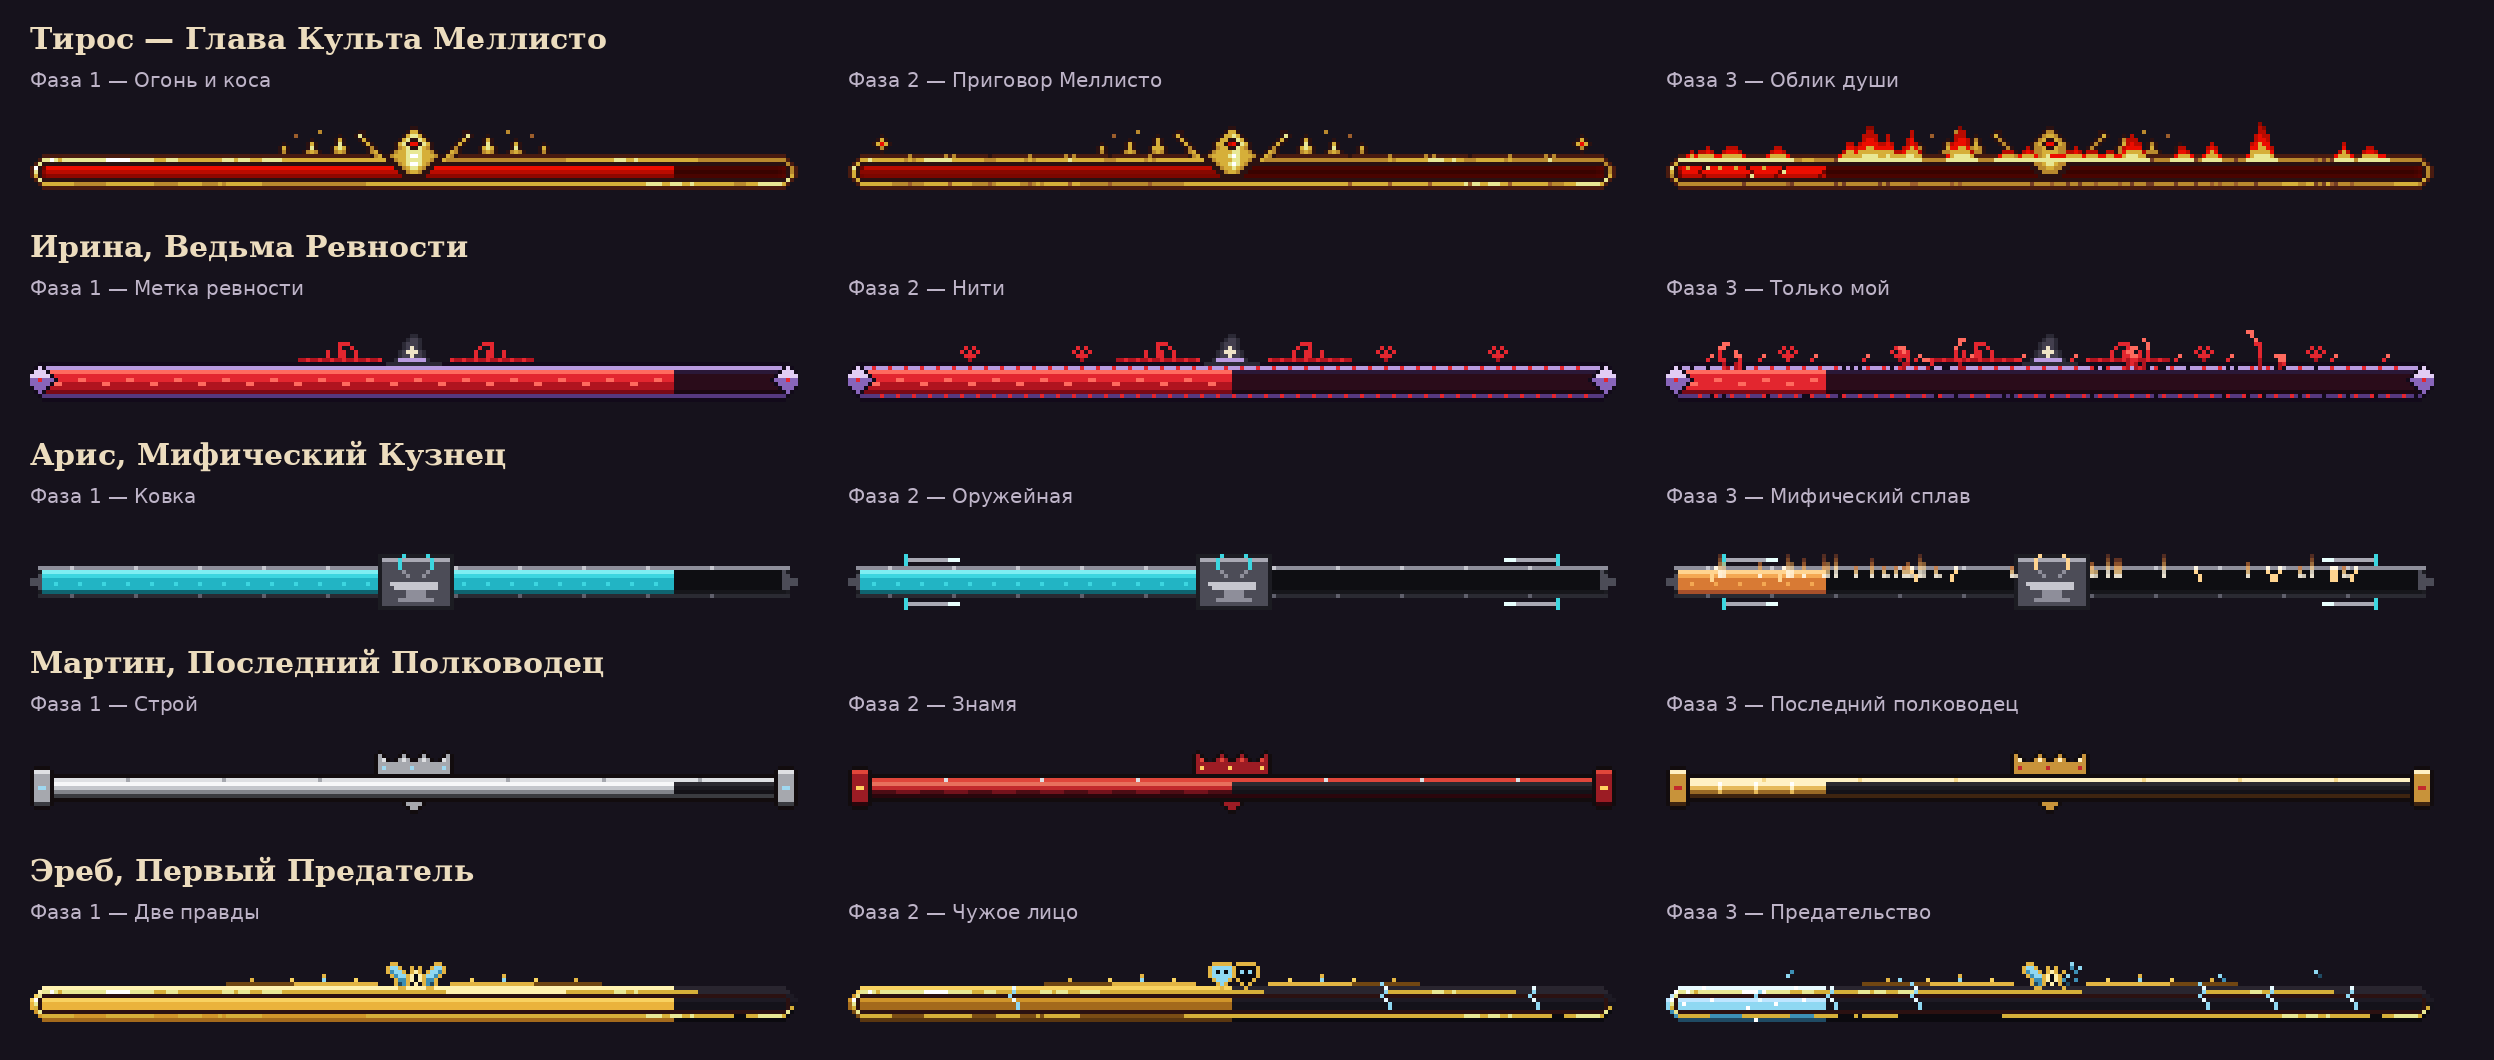
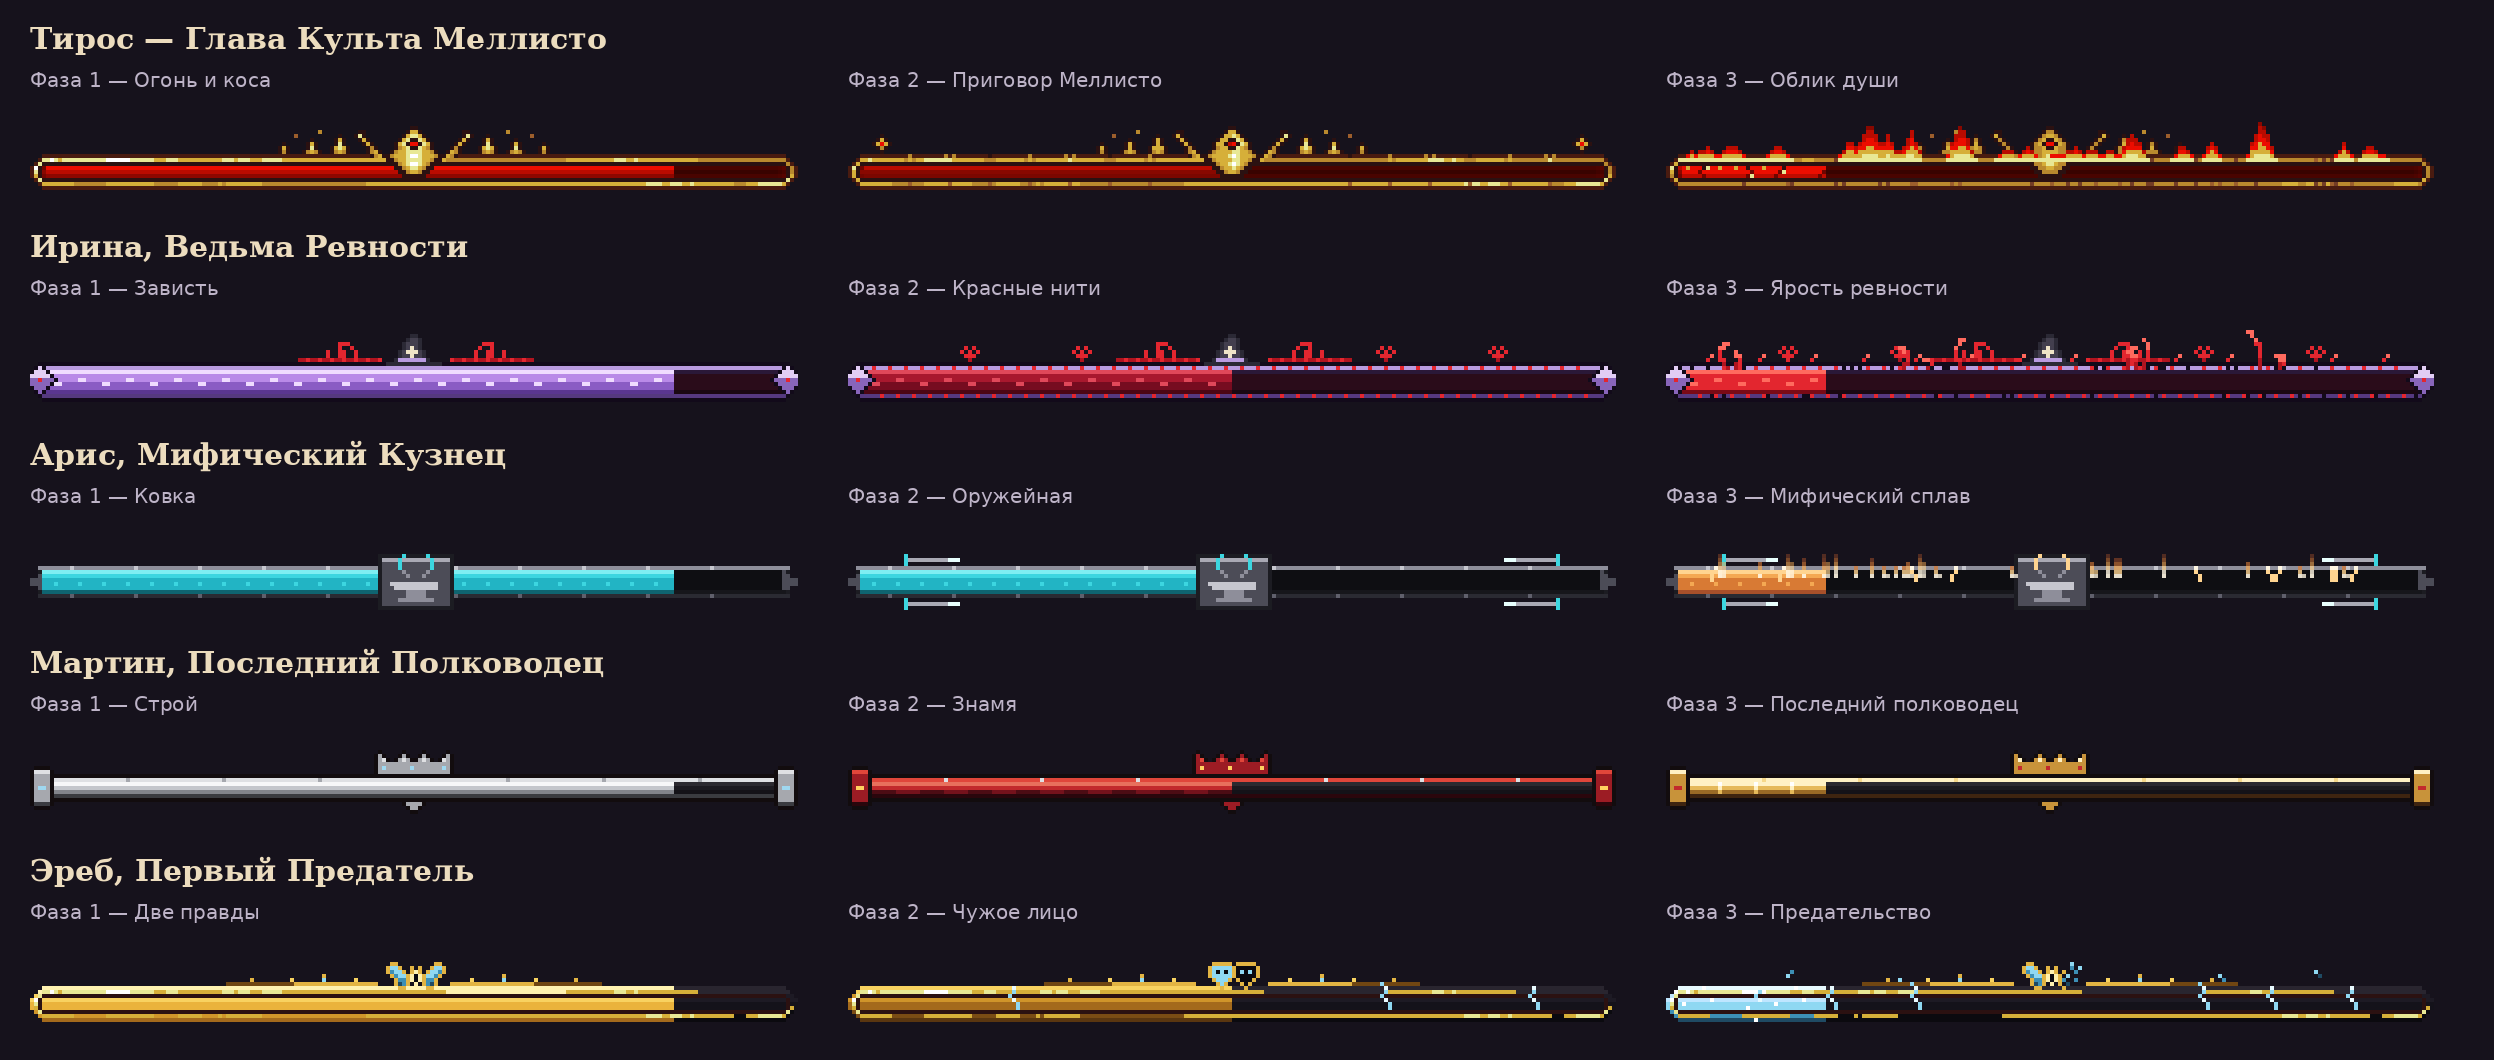
T27: Irina boss bar fill changes colour by phase (lilac / dark red / bright red); T28/T29: no NPC dialogues for now
Claude-Session: https://claude.ai/code/session_01Fjhr2dAH2KKAKWdYffHXhM

diff --git a/tools/gen_irina_fx.py b/tools/gen_irina_fx.py
@@ -651,7 +651,10 @@ def effects():
 BP = {k: _c(v) for k, v in {
     'O': '#120A1A', 'o': '#2A1838', 'L': '#E2CDF5', 'l': '#B99BE0', 'm': '#8865BA', 'd': '#55397F',
     'R': '#FF6A5E', 'r': '#E3262F', 'q': '#B0141F', 'Q': '#7A0A16', 'e': '#2A0C1A', 'E': '#1A0812',
-    'H': '#433F4E', 'h': '#2B2935', 'C': '#EFE4C8', 'G': '#F2C14A', 'W': '#FFFFFF'}.items()}
+    'H': '#433F4E', 'h': '#2B2935', 'C': '#EFE4C8', 'G': '#F2C14A', 'W': '#FFFFFF',
+    # заливка фазы 1 — лиловая (зависть), фазы 2 — тёмно-красная (нити); фаза 3 — ярко-красная (R/r/q/Q, ниже ярче)
+    '1R': '#F0DCFF', '1r': '#B98AE8', '1q': '#8A5CC4', '1Q': '#5A3690',
+    '2R': '#E0485A', '2r': '#A8182E', '2q': '#760C20', '2Q': '#4C0614'}.items()}
 
 
 def _bar_base(full, phase=1):
@@ -661,6 +664,8 @@ def _bar_base(full, phase=1):
     def px(x, y, k):
         if 0 <= x < 192 and 0 <= y < 18:
             a[y, x] = BP[k]
+    def FK(k):                                               # цвет заливки по фазе (как у остальных боссов)
+        return ('%d%s' % (phase, k)) if phase in (1, 2) else k
     x0, x1 = 3, 188
     for x in range(x0, x1 + 1):
         px(x, 7, 'O'); px(x, 16, 'O')
@@ -668,12 +673,13 @@ def _bar_base(full, phase=1):
         for y in range(9, 15):
             if full:
                 k = 'R' if y == 9 else 'r' if y <= 11 else 'q' if y <= 13 else 'Q'
+                k = FK(k)
             else:
                 k = 'o' if y == 9 else 'e' if y <= 13 else 'E'
             px(x, y, k)
         if full and (x % 6 in (0, 1)):                       # витая нить в заливке
-            px(x, 11 + (x // 6) % 2, 'R')
-            px(x + 1, 12 - (x // 6) % 2, 'q')
+            px(x, 11 + (x // 6) % 2, FK('R'))
+            px(x + 1, 12 - (x // 6) % 2, FK('q'))
     # торцы-ромбы
     for (cx, sgn) in ((2, 1), (189, -1)):
         for dy in range(-4, 5):

diff --git a/docs/specs/tasks/T28_aris_boss.md b/docs/specs/tasks/T28_aris_boss.md
@@ -24,7 +24,10 @@
 При 5% ХП бой заканчивается роликом: Арис опускается на одно колено, рога гаснут, молот падает рядом, фраза
 **«Чёрт! Я сдаюсь, прекращайте...я помогу вам..»** (чат r48 + субтитр). С этого момента — неуязвима, не атакует, полоса босса исчезает.
 **Затем становится NPC** (владелец): мирный персонаж на этом месте (CustomNPCs — через наш мост CnpcHooks, как свита Ковена, или своя
-мирная сущность с тем же видом), с которым можно поговорить; диалоги/роль — позже (лор у чата Кодинга/владельца).
+мирная сущность с тем же видом); диалогов пока нет (см. ниже).
+
+## NPC после сдачи — без диалогов (владелец 20.11)
+Диалогов у Арис пока **не будет** (возможно в будущем, не решено). Мирный NPC просто стоит в позе NPC; клик/разговор — ничего не делает (или стандартное «молчит»). Мост CnpcHooks для диалогов не нужен.
 
 ## Кто что делает
 - **Помощник по визуалу:** модель Арис + анимации (в т.ч. сдача: на колено, рога гаснут), молот 3D, fx фаз и особых, наковальни, клинки,

diff --git a/docs/specs/tasks/T29_martin_boss.md b/docs/specs/tasks/T29_martin_boss.md
@@ -25,6 +25,9 @@
 **«Хорошо, вы доказали свою силу...Я помогу Эребу, если эта ваша просьба»** (чат r48 + субтитр). Неуязвим, не атакует, полоса исчезает,
 **становится мирным NPC** (как Арис, T28). Лор Эреба — неважен для ТЗ.
 
+## NPC после сдачи — без диалогов (владелец 20.11)
+Диалогов у Мартина пока **не будет** (возможно в будущем, не решено). Мирный NPC просто стоит в позе NPC; клик/разговор — ничего не делает (или стандартное «молчит»). Мост CnpcHooks для диалогов не нужен.
+
 ## Кто что делает
 - **Помощник по визуалу:** модель (×2) + анимации (в т.ч. блок-сдача и поза NPC), меч и щит 3D, призрачные солдаты (мэш/модель), знамя, конница,
   fx, полоса по фазам, титр («Мартин, Последний Полководец» / «Глава 4 Ячейки Культа»; en «Martin, the Last Warlord» /

diff --git a/docs/inbox/2026-11-20_mgr_T27_visuals.md b/docs/inbox/2026-11-20_mgr_T27_visuals.md
@@ -226,6 +226,7 @@
 
 ## 5. Полоса здоровья, титры, иконки
 **Полоса** (`textures/gui/sprites/boss_bars/`, 192×36, формат tyros):
+- **Заливка меняет цвет по фазам, как у остальных боссов** (владелец 20.11): фаза 1 — лиловая, фаза 2 — тёмно-красная, фаза 3 — ярко-красная.
 - `irina_bossbar` — фаза 1: лиловая рамка, красная витая нить в заливке, по центру шляпа с крестом и завитки нитей;
 - `irina_bossbar_p2` — фаза 2: красные стежки по рамке и узелки-сердца;
   - `_p2_pulse` — яркий кадр: рисовать поверх с альфой 0.5 + 0.5·sin, пока есть пары;
